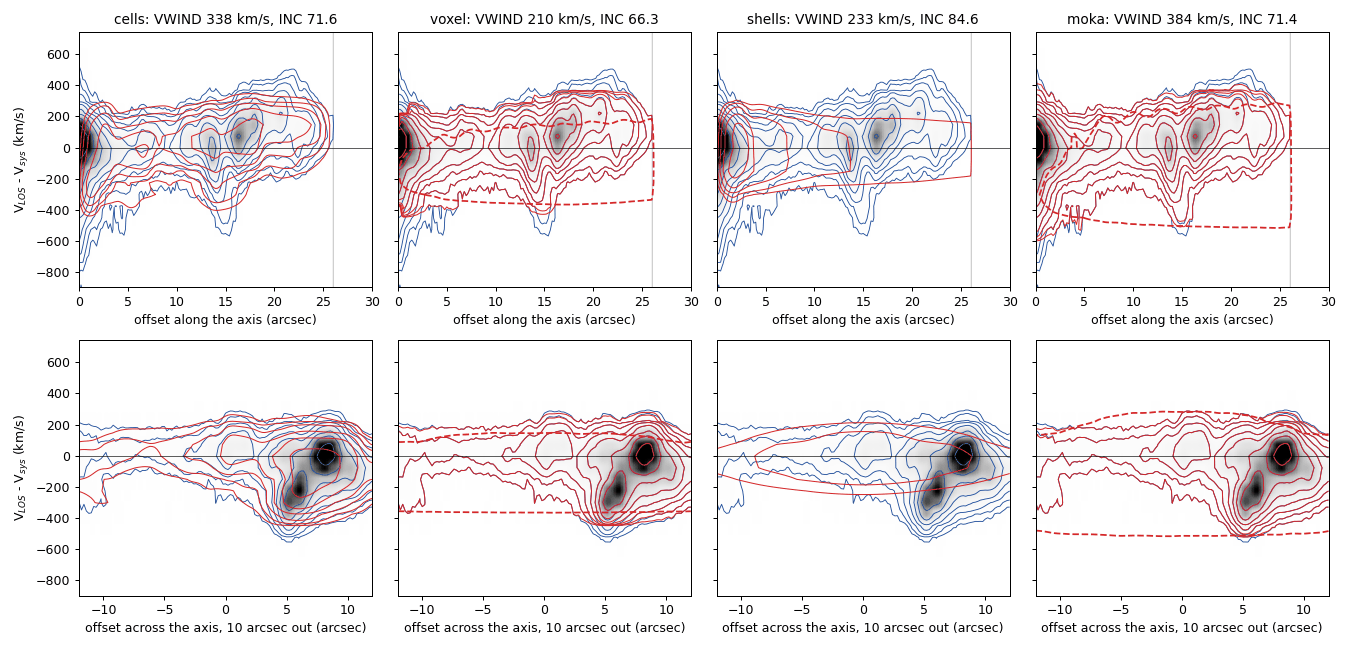
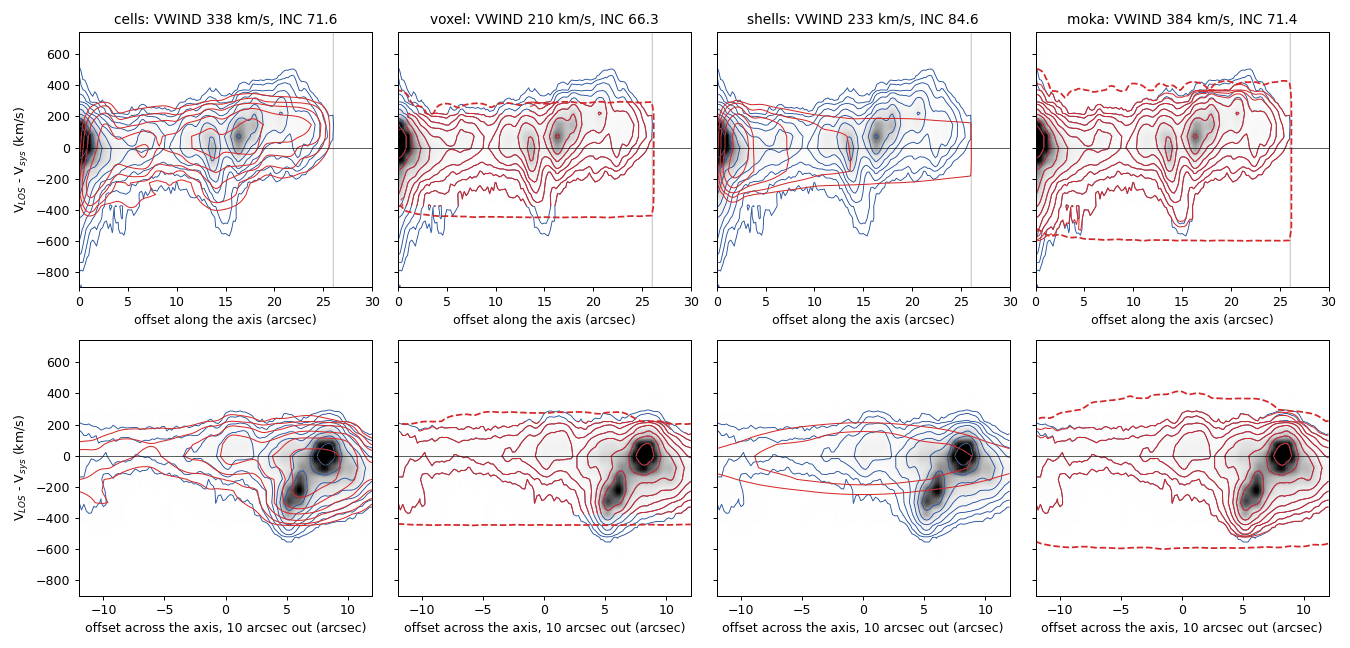
Circinus comparison figure: the cone outline at 1/1000 of its peak, the reach of the voxel model
The dashed outline of the uniform cone (voxel, moka) was at 5% of its peak in each slice, narrower than the reach
of the voxel model (1/1000 of the cone's peak in the cube), so the model contours ran past it. It is now drawn at
that reach, and the models of voxel and moka are blanked where the cone does not reach, so that their contours
stop at the last channel reached instead of running on to the next one.

diff --git a/docs/scripts/make_example_figures.py b/docs/scripts/make_example_figures.py
@@ -224,7 +224,7 @@ def circinus_compare(work):
     across it at 10 arcsec from the nucleus, 1 beam wide. The model cubes of the fits (_mod_wind.fits) in red
     contours at the levels of the data; those of voxel and moka are the data where their cone reaches (as MoKA-3D),
     so their cone is drawn too: the outline (dashed) of a uniform cone with the same geometry and wind (GALWIND), at
-    5% of its peak in each slice."""
+    1/1000 of its peak in the cube, the reach of the cone in the model of voxel."""
     import numpy as np
     import matplotlib
     matplotlib.use("Agg")
@@ -282,7 +282,9 @@ def circinus_compare(work):
                         vsys=par.get("vsys", 0.), inc=par["inc"], pa=25, openang=110, conelen=52,
                         vwind=par["vwind"], vdisp=0, restwave=5006.843, redshift=0.001448, specres=0.85, dens=1,
                         verbose=False)
-            cone = np.where(mask, np.asarray(g.run(threads=4).model.data, np.float64), np.nan)
+            cone = np.asarray(g.run(threads=4).model.data, np.float64)
+            cone_lev = 1e-3 * np.nanmax(cone)               # (the reach of the cone: 1/1000 of its peak in the cube)
+            cone = np.where(mask, cone, np.nan)
         for i, (d, m, c, offs, xl) in enumerate(
                 ((d_al, slice_(model, x0, y0, ux, uy, along),
                   None if cone is None else slice_(cone, x0, y0, ux, uy, along), along, "offset along the axis (arcsec)"),
@@ -293,10 +295,14 @@ def circinus_compare(work):
             ext = [offs[0], offs[-1], vel[chan][0], vel[chan][-1]]
             ax.imshow(d, origin="lower", aspect="auto", extent=ext, cmap="Greys", vmin=0, vmax=np.nanpercentile(d, 99.5))
             ax.contour(offs, vel[chan], np.nan_to_num(d), lev, colors="#1f4e9c", linewidths=0.7)
-            ax.contour(offs, vel[chan], np.nan_to_num(m), lev, colors="#d62728", linewidths=0.8)
-            if c is not None:
-                cc = np.nan_to_num(c)
-                ax.contour(offs, vel[chan], cc, [0.05 * cc.max()], colors="#d62728", linewidths=1.4,
+            if c is None:
+                ax.contour(offs, vel[chan], np.nan_to_num(m), lev, colors="#d62728", linewidths=0.8)
+            else:
+                # (the model is the data where the cone reaches and 0 elsewhere: blanked there, so that its contours
+                # stop at the last channel reached instead of running on to the next channel)
+                ax.contour(offs, vel[chan], np.where(np.nan_to_num(m) != 0, m, np.nan), lev, colors="#d62728",
+                           linewidths=0.8)
+                ax.contour(offs, vel[chan], np.nan_to_num(c), [cone_lev], colors="#d62728", linewidths=1.4,
                            linestyles="--")
             ax.axhline(0, color="k", lw=0.5)
             ax.set_xlabel(xl)

diff --git a/docs/examples/circinus.md b/docs/examples/circinus.md
@@ -275,7 +275,10 @@ They took 4 to 8.5 minutes each. The four agree on a cone inclined by 66° to 85
 Position–velocity slices of the data in the mask (grey, blue contours) along the axis of the cone and across it 10
 arcsec from the nucleus, one beam wide, with the model cubes of the four fits (red contours, at the levels of the
 data). The models of `voxel` and `moka` are the data where their cone reaches, as in MoKA-3D, so the dashed line
-shows the cone itself: a uniform cone with the same geometry and wind (made with GALWIND).
+shows the cone itself: a uniform cone with the same geometry and wind (made with GALWIND), at 1/1000 of its peak,
+the reach that the model of `voxel` uses: the model contours stop at the last channel it reaches. With the beam and
+the line spread the reach extends one or two channels (75 km/s each) beyond the velocities of the cone: the wind of
+`voxel` alone spans −206 to +109 km/s on the axis, its outline about −440 to +300 km/s.
 ```
 
 **VSYS free.** With VSYS free as well (`FREE=VWIND_SINGLE INC VSYS`, PRIORS VSYS between −300 and +300 km/s), the
